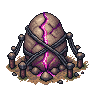
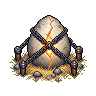
Redraw the Guardian landmark options without the Titan's eye

diff --git a/art/concepts/road-map/main.tsx b/art/concepts/road-map/main.tsx
@@ -334,11 +334,11 @@ const PHONES: { id: string; name: string; note: string; body: () => ReactNode }[
 
 const GUARDIANS: { id: string; name: string; note: string; art?: string }[] = [
   { id: 'gate', name: 'Today · the gate', note: 'The sealed stone gate.' },
-  { id: 'lair', name: 'Lair', note: 'A cave in a hill, one magenta eye looking out, bones at the mouth.', art: lairArt },
-  { id: 'ring', name: 'Ring', note: 'Standing stones round an arena floor, its seal cracked and glowing.', art: ringArt },
-  { id: 'tower', name: 'Tower', note: 'A crooked keep with a torn banner, split by one magenta crack.', art: towerArt },
-  { id: 'egg', name: 'Egg', note: 'A chained stone egg cracking open; what sleeps in it is the fight.', art: eggArt },
-  { id: 'throne', name: 'Throne', note: 'An empty clawed throne on a dais; its owner is not home.', art: throneArt },
+  { id: 'lair', name: 'Lair', note: 'A cave in a hill, claw marks by the mouth, bones and a lost shield.', art: lairArt },
+  { id: 'ring', name: 'Ring', note: 'Standing stones round an arena floor, a gold seal at its heart.', art: ringArt },
+  { id: 'tower', name: 'Tower', note: 'A stout keep with a red pennant and a barred door.', art: towerArt },
+  { id: 'egg', name: 'Egg', note: 'A chained stone egg cracking with gold light; what sleeps in it is the fight.', art: eggArt },
+  { id: 'throne', name: 'Throne', note: 'An empty clawed throne on a dais; its owner is out.', art: throneArt },
 ];
 
 function Phone({ children, short }: { children: ReactNode; short?: boolean }) {
@@ -399,10 +399,10 @@ function Page() {
             <b>The painting.</b> The Location backdrops are side-on landscapes, not ground seen from above. Lanes keeps the painting as the horizon the Guardian stands on and lay a top-down meadow below it; a real build would need ground art per Location.
           </li>
           <li>
-            <b>The Guardian is never on the map</b> (2026-09-28). Every option is a place, not the creature; the Egg and the Lair come closest, hinting at it without drawing it. Today’s gate also carries the Guardian’s element as a seal on its door, which none of these do yet: the crack, the eye or the seal could take the type colour where it is magenta now, which is the Titan’s.
+            <b>The Guardian is never on the map</b> (2026-09-28). Every option is a place, not the creature; the Egg and the Lair come closest, hinting at it without drawing it. Today’s gate also carries the Guardian’s element as a seal on its door, which none of these do yet: the seal, the egg’s light or the pennant could take the type colour where they are gold or red now. No magenta anywhere: the Titan’s eye is retired (2026-11-27, per user direction).
           </li>
           <li>
-            <b>The gate opens.</b> Tapping today’s gate plays a door-opening beat (three layers, 1250ms). A new landmark needs its own beat: the eye opening, the egg splitting, the seal flaring.
+            <b>The gate opens.</b> Tapping today’s gate plays a door-opening beat (three layers, 1250ms). A new landmark needs its own beat: the egg splitting, the pennant rising, the seal flaring.
           </li>
         </ul>
       </section>
